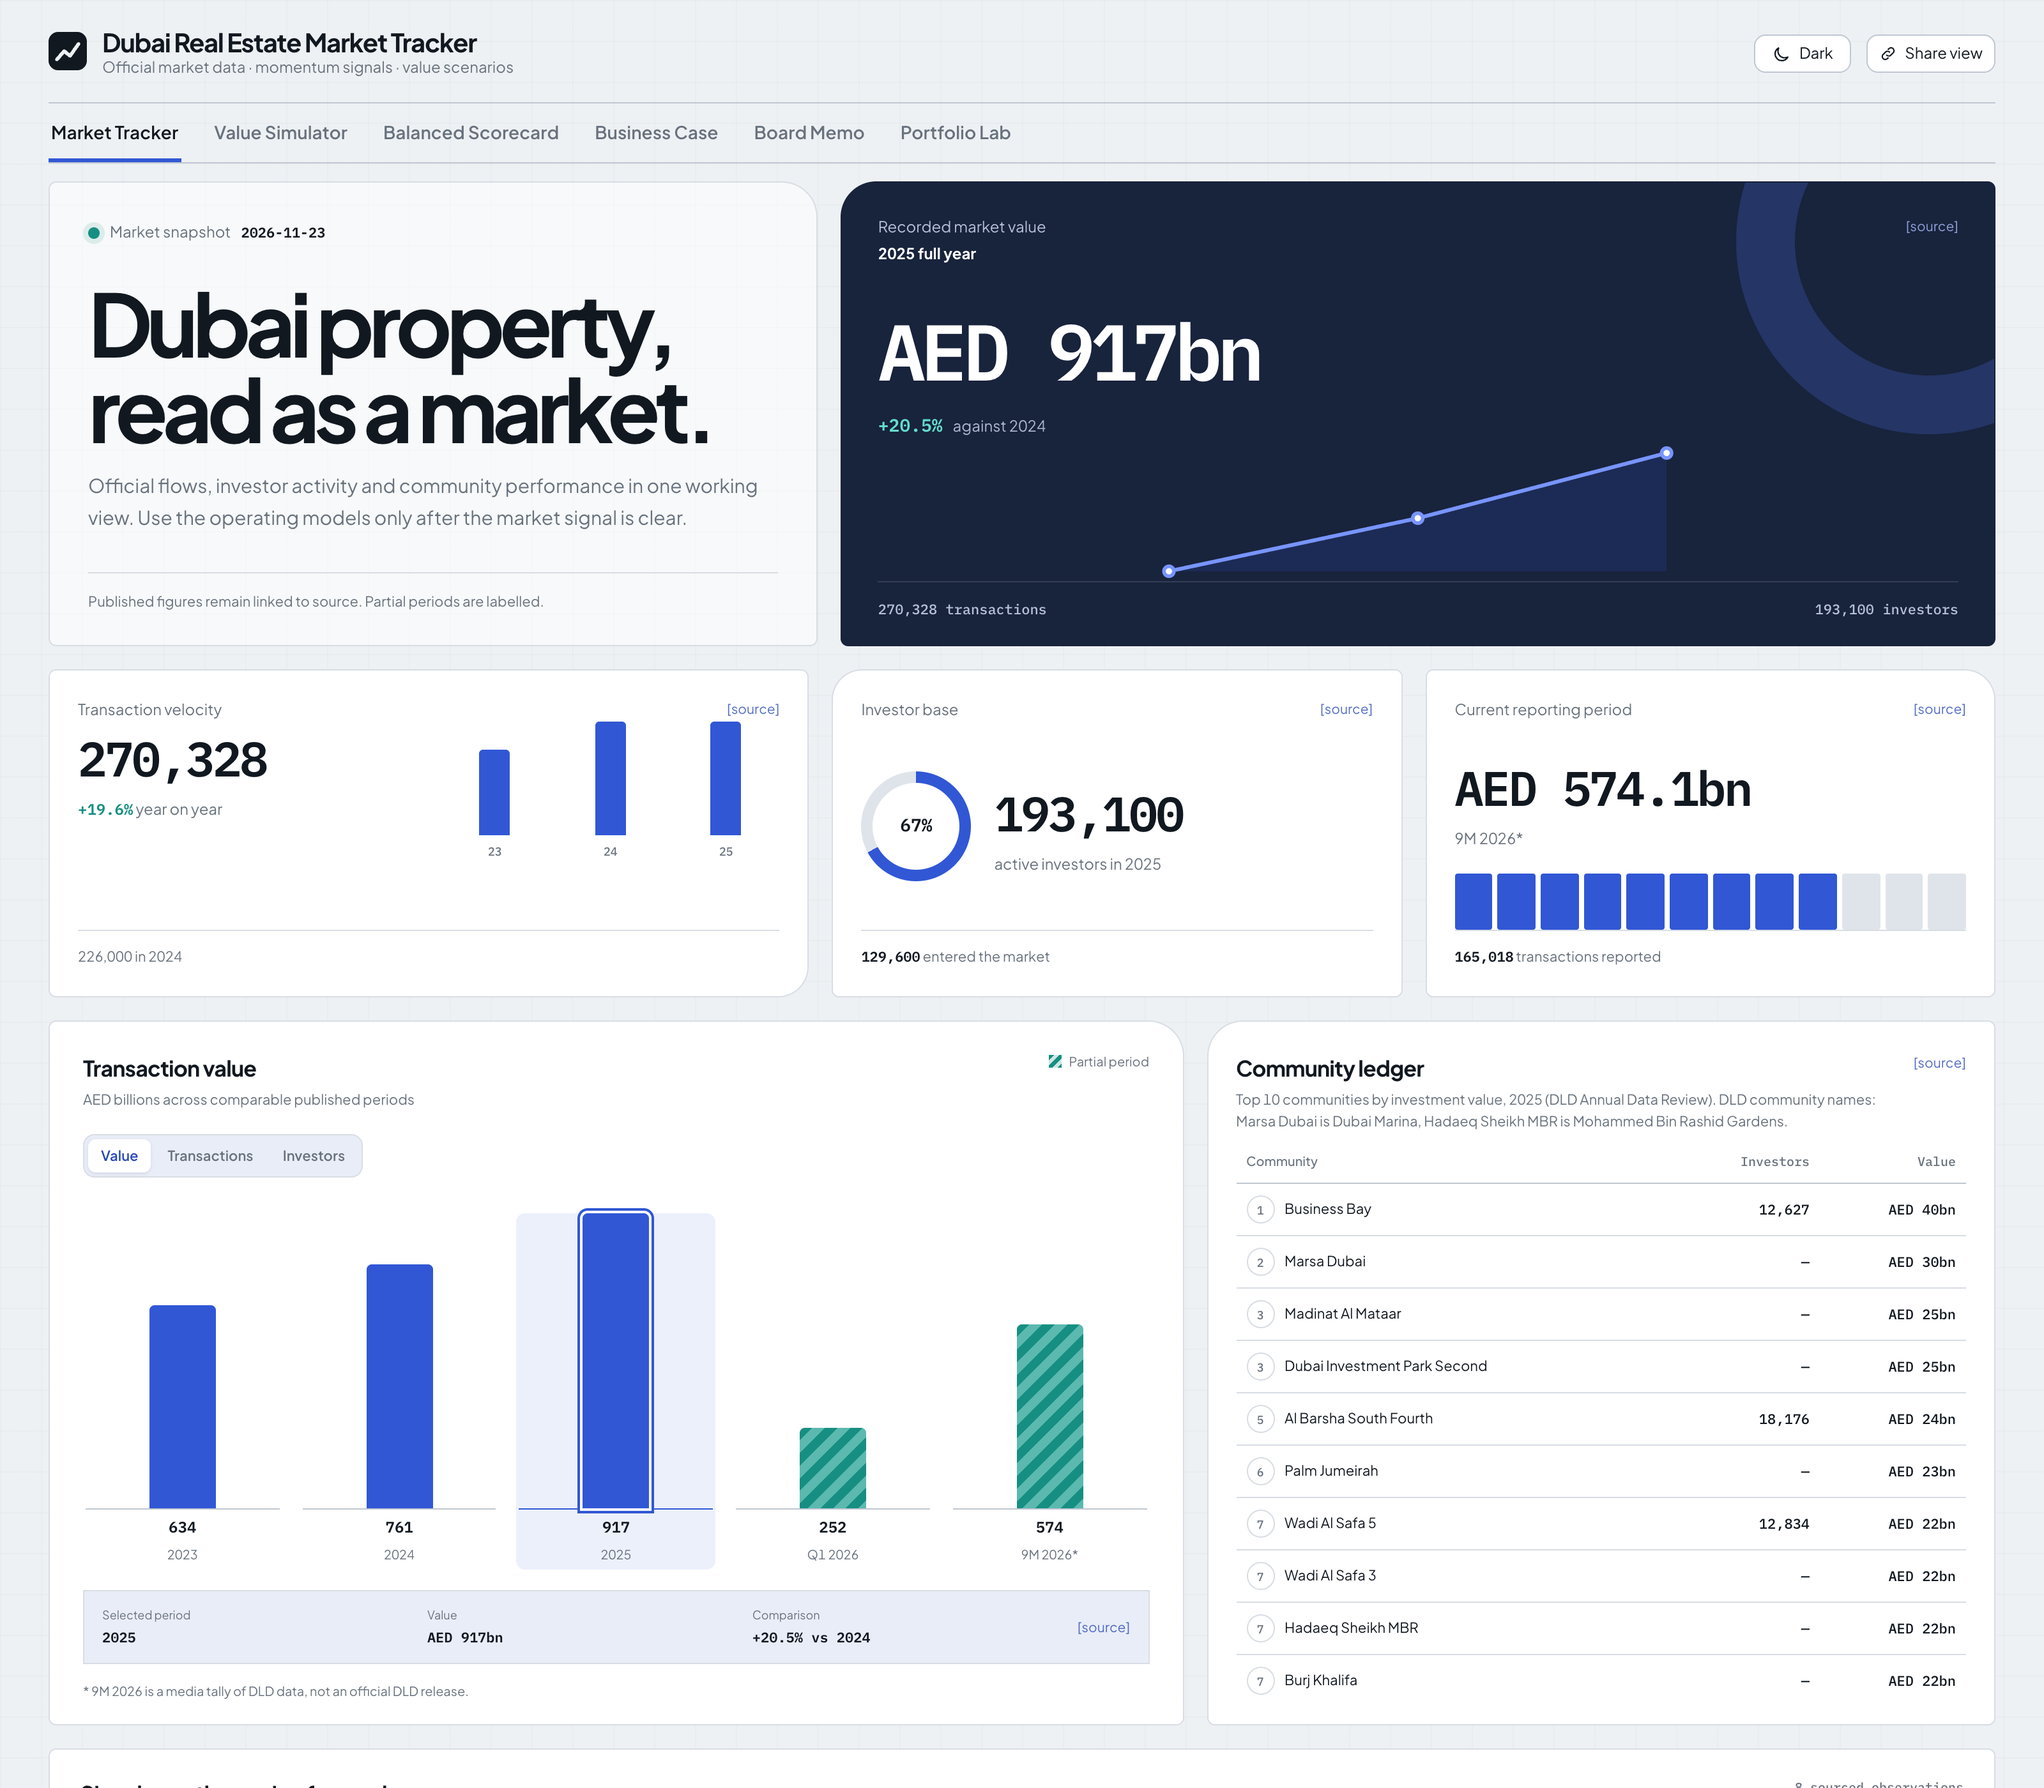
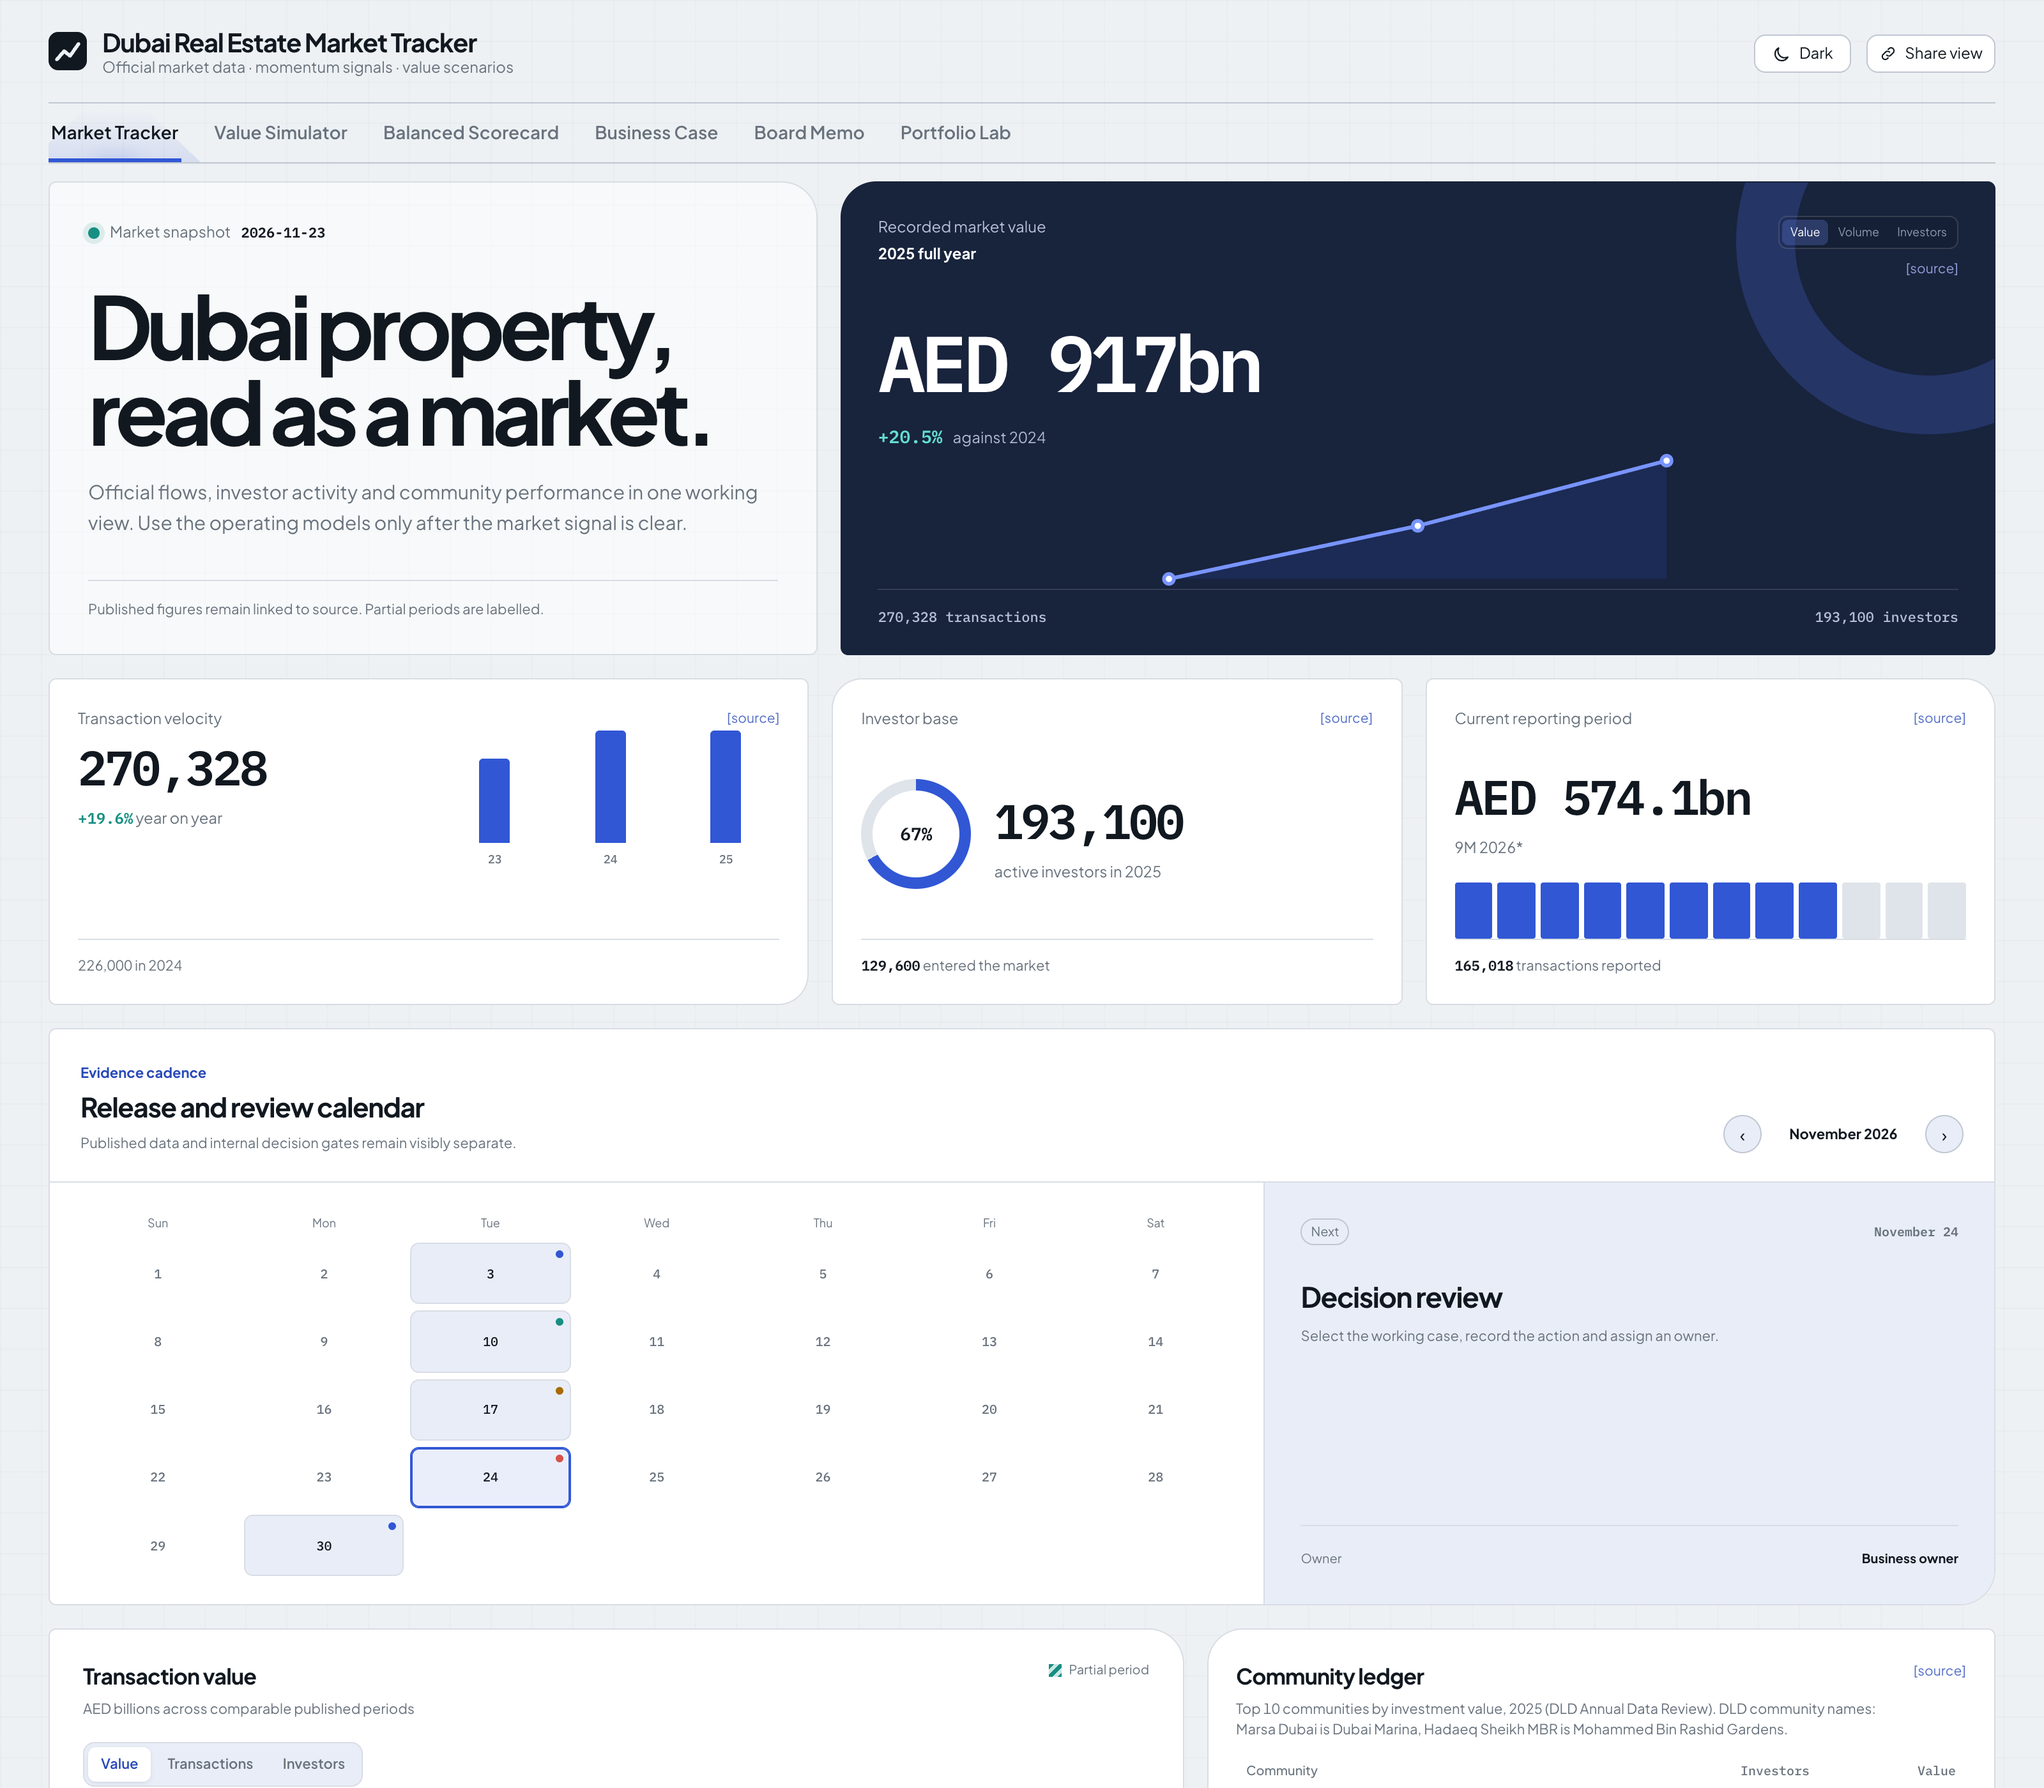
docs: showcase full market interaction suite

diff --git a/docs/user-guide.md b/docs/user-guide.md
@@ -1,26 +1,29 @@
 # User guide: from market signal to a board memo
 
-1. **Start with the Market Tracker.** Read the official-data snapshot date, headline transaction flows, leading communities and market signals. Every published figure links to its source. Use the header switch to choose light or dark mode; the browser remembers your choice.
-2. **Interrogate the history chart.** Switch between value, transactions and investors, then select a period to inspect its exact value, comparison basis, reporting scope and source. Partial periods are not treated as full-year comparisons.
-3. **Run the market-signal SOP.** Work through *Validate evidence*, *Classify materiality*, *Set the response* and *Record and review*. Each gate identifies its owner, service level, required evidence and output. Progress and the selected response are saved locally.
-4. **Connect deal-level data when needed.** Ingest a DLD Transactions CSV to add monthly deal flow, median AED/m², off-plan share, community momentum and top projects.
-5. **Open Value Simulator** and pick one of the six market-facing operating models. Each model card shows how many of its missions you have completed.
-6. **Read the baseline.** The context line shows baseline EBITDA and EV. With nothing moved, the *Board Memo* tab lists the three levers to explore first.
-7. **Move levers** on the left.
+1. **Start with the Market Tracker.** Read the official-data snapshot date and use the headline switch to morph the main instrument between value, transaction volume and investors. Every published figure links to its source. Use the header switch to choose light or dark mode; the browser remembers your choice.
+2. **Use the evidence calendar.** Move between months and select marked days to inspect publication checks, model refreshes, decision reviews and memo cut-offs. Calendar entries describe an internal review cadence unless they explicitly identify a published source.
+3. **Interrogate the history chart.** Switch between value, transactions and investors, then select a period to inspect its exact value, comparison basis, reporting scope and source. Partial periods are not treated as full-year comparisons.
+4. **Choose a working case.** Use the scenario deck or arrow keys to select Base, Upside, Growth, Downside or Liquidity Stress. Open the comparison card to place the selected illustrative case beside the published market level. These cases frame analysis; they are not forecasts.
+5. **Run the market-signal SOP.** Work through *Validate evidence*, *Classify materiality*, *Set the response* and *Record and review*. Each gate identifies its owner, service level, required evidence and output. Progress and the selected response are saved locally.
+6. **Connect deal-level data when needed.** Choose a DLD Transactions CSV in the import lab. The browser validates required fields, counts rejected rows and builds the deal-level workspace locally without uploading the file. Use the CLI ingest route when the aggregate should ship with the build.
+7. **Use the mobile command dock.** On a narrow screen, jump directly to the pulse, charts, cases, SOP or import lab.
+8. **Open Value Simulator** and pick one of the six market-facing operating models. Each model card shows how many of its missions you have completed.
+9. **Read the baseline.** The context line shows baseline EBITDA and EV. With nothing moved, the *Board Memo* tab lists the three levers to explore first.
+10. **Move levers** on the left.
    - The blue tick marks the baseline. Double-click a slider to reset it.
    - A **green** span means the move creates value; **red** means it destroys value.
    - Each moved lever shows its one-off **investment**. Hover the ⓘ to see the trade-off built into the model.
    - Or start from a **scenario preset** chip (for example, *Utilisation drive*, *Softer market*).
-8. **Read the Value Simulator tab.**
+11. **Read the Value Simulator tab.**
    - The tiles show EBITDA, margin, EV, cash released, value created and investment against the budget envelope.
    - The **EBITDA bridge** shows which lever did the work.
    - The **tornado** shows which drivers matter most from where you are now.
    - **Where to play next** ranks the next 10% move on every lever. Press **Play** to apply it.
-9. **Watch the right-hand panel.** Risk flags lower **board confidence**, and your **value score** is value × confidence. Complete **missions** to earn XP, and climb from Analyst to Chief Value Officer.
-10. **Check the Balanced Scorecard.** Cost cuts that hurt customers turn the Customer perspective amber or red.
-11. **Check the Business Case.** It shows NPV, IRR and payback after UAE corporate tax, the year-by-year benefit ramp, and an initiative register with owners.
-12. **Use Portfolio Lab** to combine sector scenarios and test transparent portfolio-level plays without tying the analysis to a named company.
-13. **Export the Board Memo** with *Copy Markdown*, *Download .md* or *Print / PDF*.
-14. **Share** the scenario. The URL carries every lever, so a colleague opens exactly what you built.
+12. **Watch the right-hand panel.** Risk flags lower **board confidence**, and your **value score** is value × confidence. Complete **missions** to earn XP, and climb from Analyst to Chief Value Officer.
+13. **Check the Balanced Scorecard.** Cost cuts that hurt customers turn the Customer perspective amber or red.
+14. **Check the Business Case.** It shows NPV, IRR and payback after UAE corporate tax, the year-by-year benefit ramp, and an initiative register with owners.
+15. **Use Portfolio Lab** to combine sector scenarios and test transparent portfolio-level plays without tying the analysis to a named company.
+16. **Export the Board Memo** with *Copy Markdown*, *Download .md* or *Print / PDF*.
+17. **Share** the scenario. The URL carries every lever, so a colleague opens exactly what you built.
 
 **Tip:** use the tracker to frame the market question first, then test only the levers that answer it. The fastest route to a high score is rarely the biggest slider move: look for short payback, manageable risks and working-capital improvements.

diff --git a/README.md b/README.md
@@ -21,13 +21,22 @@ The market tracker is the default landing experience. It brings together:
 - leading communities by investment value;
 - cited market signals covering sales, off-plan share, prices, rents and long-term demand;
 - an interactive history chart that switches between value, transactions and investors, with period-level inspection;
+- a morphing headline instrument for value, volume and investor participation;
+- an evidence calendar for market releases, review dates and decision gates;
+- five illustrative working cases in an interactive scenario deck, linked to a folding before/after comparison;
 - a persistent light/dark theme switch;
 - a four-stage market-signal SOP that tracks validation, materiality, response and decision-record gates;
-- optional deal-level analysis from a DLD Transactions CSV, including monthly flow, median AED/m², off-plan share, price momentum and top projects.
+- a mobile command dock for jumping between market workspaces;
+- a browser-based DLD import lab that validates and aggregates a Transactions CSV locally, without uploading it;
+- deal-level analysis from the connected CSV, including monthly flow, median AED/m², off-plan share, price momentum and top projects.
 
 Every published headline links to its source. The snapshot date is visible in the product, and partial-period figures are labelled.
 
 ![Dark market tracker with interactive chart controls](docs/screenshot-dark.png)
+
+![Interactive scenario deck and before-after comparison](docs/screenshot-scenarios.png)
+
+![Local DLD transaction import lab](docs/screenshot-import-lab.png)
 
 ## From market signal to value scenario
 
@@ -85,7 +94,7 @@ The repository ships with cited published aggregates in `data/market/dld-officia
    npm run build
    ```
 
-The ingest script writes `data/market/dld-aggregate.json`. It does not upload the source CSV or require a third-party data service.
+The import lab can read the same file directly in the dashboard and keeps it in the browser session. For a repeatable bundled build, the ingest script writes `data/market/dld-aggregate.json`. Neither route uploads the source CSV or requires a third-party data service.
 
 ## Share a scenario
 
